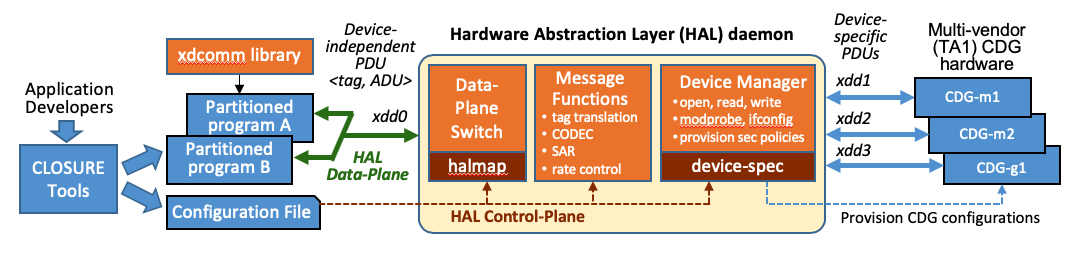
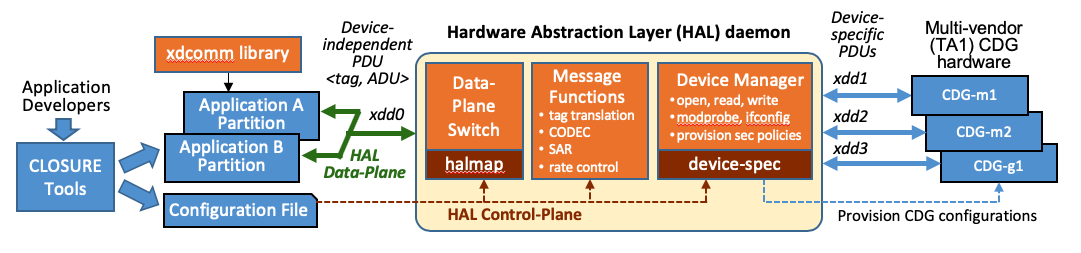
HAL daemon update

Changed region(s): [[0.0, 0.0553, 0.9769, 0.9407]]

diff --git a/daemon/README.md b/daemon/README.md
@@ -11,20 +11,20 @@ The HAL Service runs as a daemon, typically started by a systemd script at boot 
 ![HAL interfaces between applications and Network Interfaces.](figure_HAL_daemon.png)
 
 The HAL daemon, shown in the figure above, has three major components:
-- **Device Manager** which opens, configures and manages multiple types of interfaces (real or emualted):
-- Openning the devices specified in the configuration file, using each one's specified addressing/port and communication mode. 
-  - Reading and writing packets, waiting for received packets on all the opened read interfaces and transmitting packets back out onto a write interface.
-- **Data Plane Switch**, which forwards data to the correct interface (e.g., from xdd0 to xdd1) based based on the arriving packet's tag and the HAL configuration file unidirectional mapping rules (**halmap**).
+- **Data Plane Switch**, which forwards packets (containing a tag and ADU) from one interface to another (e.g., from xdd0 to xdd1). Its forwarding in based on the arriving packet's interface name, the packet's tag value, and the HAL configuration file unidirectional mapping rules (**halmap**).  
+- **Device Manager**, which opens, configures and manages the different types of interfaces (real or emualted):
+  - Openning the devices specified in the configuration file, using each one's specified addressing/port and communication mode. 
+  - Reading and writing packets. It waits for received packets on all the opened read interfaces (using a select() function) and transmits packets back out onto the halmap-specified write interface.
 - **Message Functions**, which transform and control packets passing through HAL. Currenlty supported function include:
-  - Conversion to and from the internal HAL format (containing tag and ADU) and the different CDG packet formats. Each CDG packet format has a separate HAL sub-component that performs the tag encoding and decoding.
-
-HAL's interface to applications is through the [HAL-API](../api/). This *xdcomms C library* provides the high-level interface used by Applications to: a) send and receive Application Data Units (ADUs), and b) describe the ADU configuration. Using the ADU configuration description, the API uses the Application generated [Codecs](../appgen/) to serialize (or de-serialize) the ADU before sending the packet to (or after receiving a packet from) HAL.
-
+  - Tag translation between the internal HAL format and the different CDG packet formats. Each CDG packet format has a separate HAL sub-component that performs the tag encoding and decoding: e.g., [packetize_sdh_bw_v1.c](packetize_sdh_bw_v1.c) and [packetize_sdh_bw_v1.h](packetize_sdh_bw_v1.h).
+  
 HAL communicates with the application or guard through on of its high-level interaces (e.g., xdd0 and xdd1), which can include one or more: 
 - Serial devices carrying TCP/IP packets (e.g., tty0).
 - Network devices carrying either UDP or TCP packets (e.g., eth0) in client and/or server mode).
 - ZeroMQ using IPC or INET (e.g., ipc:///tmp/halpub, ipc:///tmp/halsub).
-In the figure below, HAL's left interface connects to the applications, while its right interfaces connect (through the host's devices) to the CDGs (residing either as a *bookend* (BE) on the same host as HAL or as a *bump-in-the-wire* (BW).
+In the figure above, HAL's left interface connects to the applications, while its right interfaces connect (through the host's devices) to the CDGs (residing either as a *bookend* (BE) on the same host as HAL or as a *bump-in-the-wire* (BW).
+
+HAL's interface to applications is through the [HAL-API](../api/). This *xdcomms C library* provides the high-level interface used by Applications to: a) send and receive Application Data Units (ADUs), and b) describe the ADU configuration. Using the ADU configuration description, the API uses the Application generated [Codecs](../appgen/) to serialize (or de-serialize) the ADU before sending the packet to (or after receiving a packet from) HAL.
 
 
 #### HAL Command Options
@@ -44,7 +44,6 @@ CONFIG-FILE: path to HAL configuration file (e.g., test/sample.cfg)
 
 Note that:
 - If there are multiple HAL daemon instances on a node, then they must use different interaces.
-- Packet formats and their encoding and decoding functions are spefcified in daemon files: e.g., [packetize_sdh_bw_v1.c](packetize_sdh_bw_v1.c)  and [packetize_sdh_bw_v1.h]](packetize_sdh_bw_v1.h).
 
 Planned HAL extensions include:
 - Configuring the cross domain guards.
